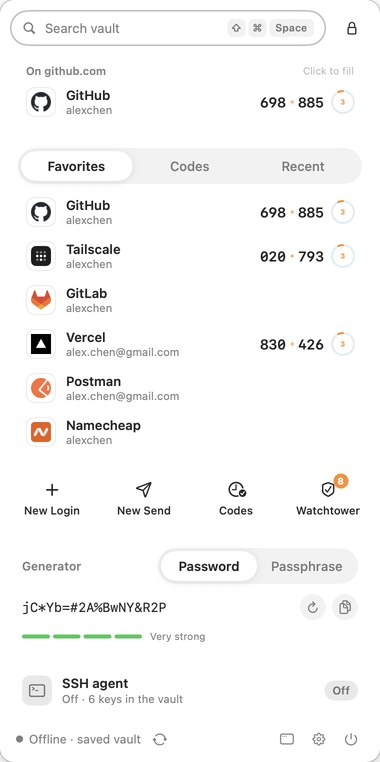
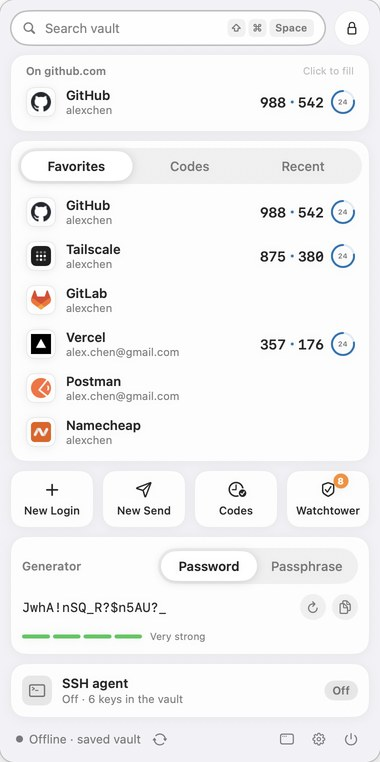
Menu bar panel: cards that stand out in light mode; two-digit badges
The panel's glass is near-white in light mode, so its white cards with white edges vanished into it. The
panel now has a soft grey wash in light mode, and its cards are nearly opaque white with a hairline edge and
a faint shadow (dark mode unchanged). The Watchtower badge takes its own width, so "56" no longer shows as "5…".

diff --git a/App/Sources/MenuBarExtraView.swift b/App/Sources/MenuBarExtraView.swift
@@ -32,6 +32,8 @@ struct MenuBarContent: View {
         }
         .padding(10)
         .frame(width: 380)
+        // Light: a soft grey wash over the system's near-white glass, so the white cards have something to stand on.
+        .background(Color.menuWash)
         .onAppear { model.captureForeground() } // the page or app the panel was opened over
         .animation(.snappy(duration: 0.22), value: query.isEmpty)
     }
@@ -68,8 +70,8 @@ struct MenuBarContent: View {
                 }
             }
             .padding(.horizontal, 12).frame(height: 36)
-            .background(Color.panelStrong, in: .capsule)
-            .overlay(Capsule().strokeBorder(searching ? Color.primary.opacity(0.3) : Color.panelEdge, lineWidth: searching ? 1.5 : 1))
+            .background(Color.menuCard, in: .capsule)
+            .overlay(Capsule().strokeBorder(searching ? Color.primary.opacity(0.3) : Color.menuEdge, lineWidth: searching ? 1.5 : 1))
             .animation(.easeOut(duration: 0.15), value: searching)
 
             if model.accounts.count > 1 { AccountMenu() }
@@ -165,8 +167,9 @@ private struct PanelCard<Content: View>: View {
         content
             .padding(padding)
             .frame(maxWidth: .infinity, alignment: .leading)
-            .background(Color.panelStrong, in: .rect(cornerRadius: 16, style: .continuous))
-            .overlay(RoundedRectangle(cornerRadius: 16, style: .continuous).strokeBorder(Color.panelEdge))
+            .background(Color.menuCard, in: .rect(cornerRadius: 16, style: .continuous))
+            .overlay(RoundedRectangle(cornerRadius: 16, style: .continuous).strokeBorder(Color.menuEdge))
+            .shadow(color: .menuShadow, radius: 5, y: 1)
     }
 }
 
@@ -179,8 +182,8 @@ private struct CircleButton: View {
         Button(action: action) {
             Image(systemName: symbol).font(.system(size: 13, weight: .medium))
                 .frame(width: 36, height: 36)
-                .background(Color.panelStrong, in: .circle)
-                .overlay(Circle().strokeBorder(Color.panelEdge))
+                .background(Color.menuCard, in: .circle)
+                .overlay(Circle().strokeBorder(Color.menuEdge))
                 .contentShape(.circle)
         }
         .buttonStyle(.plain)
@@ -460,14 +463,16 @@ private struct QuickActions: View {
                             Text(verbatim: "\(badge)").font(.system(size: 9, weight: .bold)).foregroundStyle(.white)
                                 .padding(.horizontal, 4).frame(minWidth: 15, minHeight: 15)
                                 .background(Color.orange, in: .capsule)
+                                .fixedSize() // its own width: laid out in the icon's, "56" came out as "5…"
                                 .offset(x: 12, y: -7)
                         }
                     }
                 Text(title).font(.system(size: 11, weight: .medium)).lineLimit(1).minimumScaleFactor(0.8)
             }
             .frame(maxWidth: .infinity).frame(height: 58)
-            .background(Color.panelStrong, in: .rect(cornerRadius: 14, style: .continuous))
-            .overlay(RoundedRectangle(cornerRadius: 14, style: .continuous).strokeBorder(Color.panelEdge))
+            .background(Color.menuCard, in: .rect(cornerRadius: 14, style: .continuous))
+            .overlay(RoundedRectangle(cornerRadius: 14, style: .continuous).strokeBorder(Color.menuEdge))
+            .shadow(color: .menuShadow, radius: 5, y: 1)
             .contentShape(.rect)
         }
         .buttonStyle(.plain)
@@ -620,8 +625,8 @@ private struct AccountMenu: View {
             }
             .frame(minWidth: 36, minHeight: 36)
             .padding(.horizontal, focused == nil ? 6 : 0)
-            .background(Color.panelStrong, in: .capsule)
-            .overlay(Capsule().strokeBorder(Color.panelEdge))
+            .background(Color.menuCard, in: .capsule)
+            .overlay(Capsule().strokeBorder(Color.menuEdge))
             .contentShape(.capsule)
         }
         .menuStyle(.button)
@@ -670,4 +675,13 @@ enum MenuBarGlyph {
         image.accessibilityDescription = "Triwarden"
         return image
     }()
+}
+
+extension Color {
+    /// The menu bar panel's cards. Its glass is near-white in light mode (the window's cards sit on a coloured
+    /// backdrop instead), so here they're nearly opaque white with a hairline and a soft shadow to stand out.
+    static let menuCard = adaptive(light: .white.opacity(0.92), dark: .white.opacity(0.09))
+    static let menuEdge = adaptive(light: .black.opacity(0.07), dark: .white.opacity(0.08))
+    static let menuShadow = adaptive(light: .black.opacity(0.05), dark: .clear)
+    static let menuWash = adaptive(light: Color(red: 0.925, green: 0.928, blue: 0.95).opacity(0.7), dark: .clear)
 }
